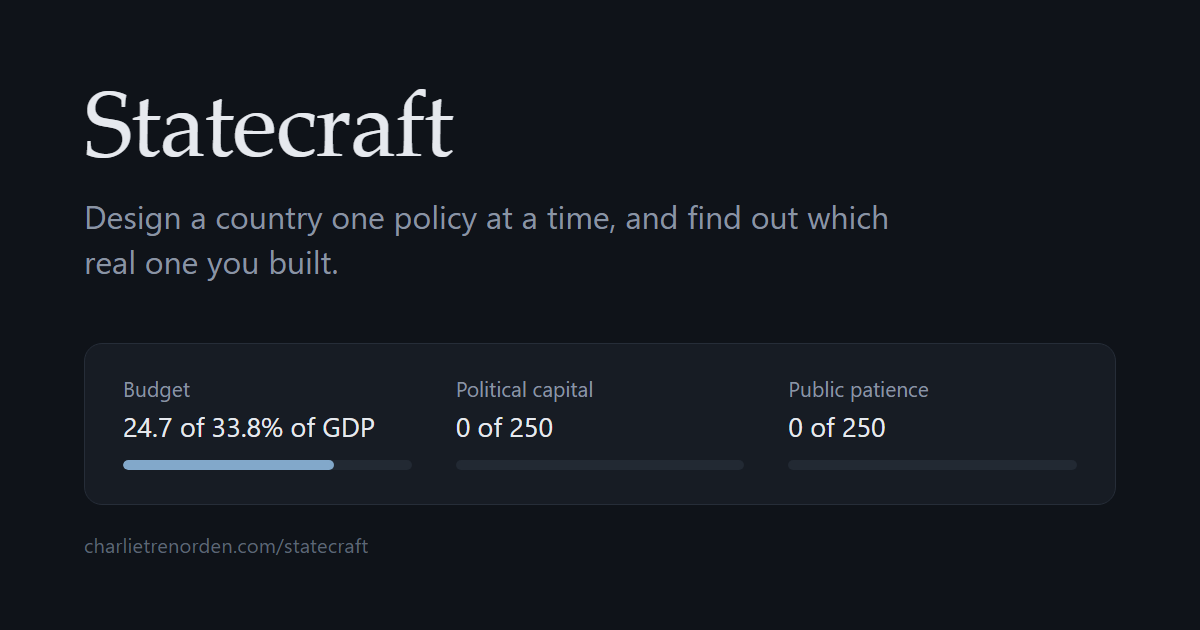
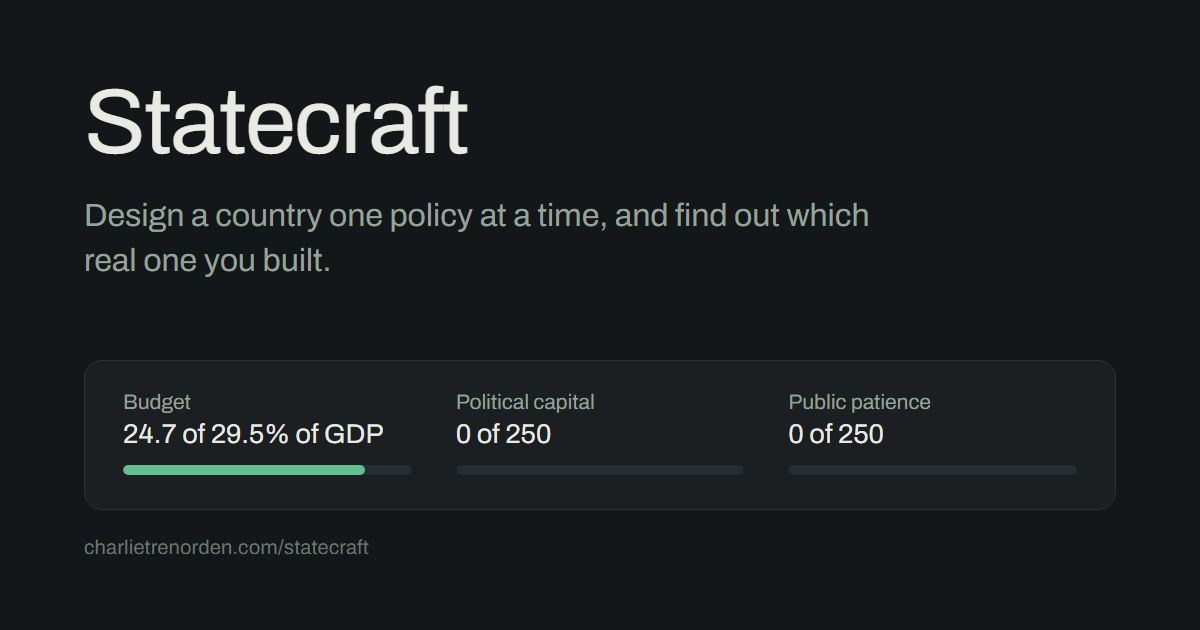
statecraft: the share card reads the real palette instead of a copy of it
It carried a hand-copied block of tokens under a comment saying "update both or
neither", and of course they drifted: the card kept the old blue accent and the
old serif stack through a palette change AND a font change, so every share of
the page advertised a design the site no longer had. That is invisible from the
site itself, like any broken share card.

It reads the dark block out of style.css now, the way it already read the tax
constants out of budget.js, and raises if a token it needs has been renamed.

Two more things it had wrong. It took the starting tax rate from the option's
hand-set number, a third copy of the rule startingRate() fixed in budget.js, so
it showed Australia raising 33.8% of GDP where the page says 29.5. And it never
loaded Archivo, so it rendered in whatever the shooting machine had. It now
requests the faces and REFUSES to write a card if they are missing, because this
runs by hand and a wrong card would be committed without anyone watching it
render. That guard fired on the first run, which is how the missing font was
found: document.fonts.status reads "loaded" while a face nothing has demanded
has not been fetched, so waiting on status alone passes instantly.

The homepage card's alt text described three budget meters above a list of tax
policies, which has not been the layout for two days.

diff --git a/index.html b/index.html
@@ -409,7 +409,7 @@
   </a>
 
   <a class="proj" href="https://charlietrenorden.com/statecraft/">
-    <div class="thumb"><img src="assets/statecraft.webp" alt="Screenshot of Statecraft, showing three budget meters above a list of tax policies with what each one costs" loading="lazy" width="1400" height="875"></div>
+    <div class="thumb"><img src="assets/statecraft.webp" alt="Screenshot of Statecraft, showing a radar chart of thirteen policy areas beside sliders for tax and healthcare, each with what it costs" loading="lazy" width="1400" height="875"></div>
     <div class="meta">
       <div class="head"><span class="name">Statecraft</span><span class="status s-wip">In progress</span></div>
       <p class="desc">Design a country one policy at a time, and find out which real one you built.</p>

diff --git a/statecraft/make_card.py b/statecraft/make_card.py
@@ -41,20 +41,51 @@ SCRATCH = HERE / "_card_scratch.html"
 
 WIDTH, HEIGHT = 1200, 630
 
-# The dark block of style.css, verbatim. Update both or neither.
-BG = "#0f1319"
-PANEL = "#171c24"
-INK = "#e6e9ee"
-SOFT = "#8a94a3"
-FAINT = "#5d6675"
-RULE = "#262d38"
-TRACK = "#222933"
-ACCENT = "#82a8ca"
+# READ OUT OF style.css, NOT COPIED FROM IT.
+#
+# These were a hand-copied block with the comment "update both or neither"
+# above them, and of course they drifted: the card kept the old blue accent and
+# the old serif stack through a palette change and a font change, so every share
+# of the page advertised a design the site no longer had. That is invisible from
+# the site itself, exactly like a broken share card, and it is the same fault as
+# the stale thumbnail on the same day.
+#
+# The file already parses the tax constants out of budget.js rather than keeping
+# a second copy. This is the same move for colour and type. If a token is ever
+# renamed the assertion below fails loudly rather than the card quietly reverting
+# to whatever the fallback was.
 
-SERIF = ('"Iowan Old Style", "Palatino Linotype", Palatino, Georgia, '
-         '"Times New Roman", serif')
-SANS = ('-apple-system, BlinkMacSystemFont, "Segoe UI", Roboto, '
-        '"Helvetica Neue", Arial, sans-serif')
+STYLE = HERE / "style.css"
+
+# Compiled once, and as a RAW string: written inline through a shell heredoc a
+# backslash-s arrives as a literal escape.
+PROP = re.compile(r"--([a-z0-9-]+):\s*([^;]+);")
+
+
+def dark_tokens():
+    """Every custom property from the :root[data-theme="dark"] block."""
+    css = STYLE.read_text(encoding="utf-8")
+    start = css.index(':root[data-theme="dark"] {')
+    block = css[start:css.index("}", start)]
+    found = dict(PROP.findall(block))
+    missing = [k for k in ("bg", "panel", "ink", "soft", "faint", "rule",
+                           "track", "accent", "font-title", "font-body")
+               if k not in found]
+    if missing:
+        raise SystemExit(f"style.css dark block has no {', '.join(missing)}; "
+                         f"the share card cannot be built from it")
+    return {k: v.strip() for k, v in found.items()}
+
+
+_T = dark_tokens()
+BG, PANEL, INK = _T["bg"], _T["panel"], _T["ink"]
+SOFT, FAINT, RULE, TRACK = _T["soft"], _T["faint"], _T["rule"], _T["track"]
+ACCENT = _T["accent"]
+
+# The page uses one family for both now, but the card keeps two names so its
+# layout code does not have to change if that ever splits again.
+SERIF = _T["font-title"]
+SANS = _T["font-body"]
 
 # Kept identical to og:description in index.html.
 DESCRIPTION = ("Design a country one policy at a time, "
@@ -110,6 +141,14 @@ def default_budgets(data):
         if isinstance(chosen.get("financial"), (int, float)):
             spend += chosen["financial"]
 
+    # ITS OWN MEASURED TAX TAKE, matching startingRate() in budget.js. The option
+    # rate is one hand-set number standing for every country tagged to it, and
+    # this was a third copy of that rule which had drifted back to it: the card
+    # showed Australia raising 33.8% of GDP when the page shows 29.5.
+    measured = (country.get("indicators") or {}).get("tax_take")
+    if measured and isinstance(measured.get("value"), (int, float)):
+        rate = measured["value"]
+
     capacity = max(realised_revenue(rate) + country.get("nonTaxRevenue", 0.0), spend)
     capacity, spend = round(capacity, 1), round(spend, 1)
     return code, [
@@ -132,7 +171,15 @@ def meter_html(name, figure, fraction):
 
 def page_html(meters):
     return f"""<!doctype html>
-<html><head><meta charset="utf-8"><style>
+<html><head><meta charset="utf-8">
+<!-- The font the page actually uses. Without this the card inherits the token's
+     fallback stack and renders in whatever the shooting machine has, which is
+     how it came out in a generic sans while the site was in Archivo. The
+     renderer waits on document.fonts before shooting. -->
+<link rel="preconnect" href="https://fonts.googleapis.com">
+<link rel="preconnect" href="https://fonts.gstatic.com" crossorigin>
+<link rel="stylesheet" href="https://fonts.googleapis.com/css2?family=Archivo:wght@400;600;700&display=swap">
+<style>
   * {{ box-sizing: border-box; margin: 0; padding: 0; }}
   html, body {{ width: {WIDTH}px; height: {HEIGHT}px; }}
   body {{
@@ -216,6 +263,25 @@ def main():
                 device_scale_factor=1,
             )
             page.goto(SCRATCH.as_uri())
+            # WAIT FOR THE WEBFONT, and fail rather than ship a card in the
+            # fallback stack: unlike the thumbnail job, this runs by hand and a
+            # wrong card would be committed without anyone seeing it render.
+            #
+            # ASK FOR THE FACES, do not just wait on the status. document.fonts
+            # .status reads "loaded" while a face nothing has demanded yet has
+            # not been fetched, so waiting on it alone passed instantly and then
+            # the check below failed. load() requests them and resolves when they
+            # are there.
+            page.evaluate("""() => Promise.all([
+                document.fonts.load('700 16px Archivo'),
+                document.fonts.load('600 16px Archivo'),
+                document.fonts.load('400 16px Archivo'),
+            ])""")
+            page.wait_for_function("() => document.fonts.status === 'loaded'",
+                                   timeout=15000)
+            if not page.evaluate("() => document.fonts.check('700 16px Archivo')"):
+                raise SystemExit("Archivo did not load; refusing to write a card "
+                                 "in the fallback face")
             page.screenshot(path=str(OUT))
             browser.close()
     finally:
